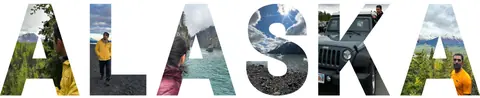
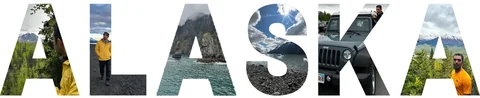
Privacy: no mentions of family, Statcounter visit counting, ehsanjalilvand.com links
- Gallery: the Lake Clark and sea-stacks photos are removed, and the second
  "A" of the ALASKA collage is refilled with sea-stacks scenery only. The
  Alaska card on About now shows the spruce-valley photo.
- Blog: the spotlight portrait's caption credits the NASA Goddard spotlight
  instead of naming the photographer.
- Statcounter visit counting in nav.js, off until the project ID and security
  code are filled in; ?notrack keeps a browser out of the count, and the
  footer says visits are counted while it is on.
- Canonical link, README, agent preview link and docs point at
  https://ehsanjalilvand.com/.
- Privacy check workflow: fails if a personal email address appears in any
  file. CLAUDE.md records the rules for future sessions.
- docs/MAINTAINING.md: Visit counting, Privacy check and Site address.

Claude-Session: https://claude.ai/code/session_018Mb1wVEW5w4WvrE51UhnnJ

Changed region(s): [[0.3125, 0.0306, 0.5, 0.9796]]

diff --git a/site/gallery.html b/site/gallery.html
@@ -14,7 +14,7 @@
 <link rel="preload" href="assets/fonts/young-serif-latin-400-normal.woff2" as="font" type="font/woff2" crossorigin>
 <script>/* The light or dark theme a visitor chose with the switch in the header (assets/nav.js), applied before the page draws. */try{var t=localStorage.getItem("theme");if(t==="light"||t==="dark")document.documentElement.dataset.theme=t}catch(e){}</script>
 <link rel="stylesheet" href="assets/site.css?v=dd2d328f4d">
-<script src="assets/nav.js?v=69473099a0" defer></script>
+<script src="assets/nav.js?v=f2bbf4ece9" defer></script>
 <link rel="stylesheet" href="assets/vendor/leaflet/leaflet.css?v=c02c12fe5e">
 <script src="assets/vendor/leaflet/leaflet.js?v=35b48eb991" defer></script>
 <link rel="stylesheet" href="assets/gallery.css?v=676f400483">
@@ -53,7 +53,7 @@
         <li><strong>EGU General Assembly, 2017 and 2018</strong>, Austria Center Vienna, Vienna, Austria, April 2017 and April 2018: <a href="assets/gallery/egu2017-poster.webp">My EGU 2017 poster, unrolled in the office in Perugia: toward a global map of drainage rate using satellite soil moisture data as the only input.</a>, <a href="assets/gallery/egu2018-vienna.webp">With colleagues at EGU 2018 in Vienna, 10 April 2018.</a></li>
         <li><strong>SMAPVEX22 field campaign</strong>, Harvard Forest, Massachusetts, July 2022: <a href="assets/gallery/smapvex22-pinboard.webp">Measuring surface roughness with a pinboard.</a>, <a href="assets/gallery/smapvex22-tdr.webp">Three TDR sensors measuring soil moisture.</a>, <a href="assets/gallery/smapvex22-bulk-density.webp">Measuring bulk density: dig out a ring of soil, dry it, and measure the volume of the hole.</a>, <a href="assets/gallery/smapvex22-coring.webp">Taking soil samples next to the sensors.</a>, <a href="assets/gallery/smapvex22-tree-height.webp">Measuring tree height with a laser rangefinder and hypsometer.</a>, <a href="assets/gallery/smapvex22-vegetation.webp">Vegetation measurements with the Michigan Tech Research Institute team.</a>, <a href="assets/gallery/smapvex22-logger.webp">A solar-powered station logging soil moisture through the campaign.</a>, <a href="assets/gallery/smapvex22-owl.webp">A barred owl watching us from a dead branch in Harvard Forest, 26 July 2022.</a>, <a href="assets/gallery/smapvex22-team.webp">The field team.</a></li>
         <li><strong>Crop growth stages, field measurements</strong>, Michigan State University, East Lansing, July–September 2022: <a href="assets/gallery/michigan-soybean-leaves.webp">Counting soybean leaves.</a>, <a href="assets/gallery/michigan-lai.webp">Measuring leaf area index with an LAI meter.</a>, <a href="assets/gallery/michigan-corn.webp">Sampling corn for plant height and vegetation water content.</a>, <a href="assets/gallery/michigan-soybean-end.webp">Soybean at the end of the season.</a></li>
-        <li><strong>Across Alaska’s tundra</strong>, Alaska, May 2023: <a href="assets/gallery/alaska-2023.webp">Alaska, May 2023, in one word.</a>, <a href="assets/gallery/alaska-lake-clark.webp">On the shore of Cook Inlet in Lake Clark National Park, with the bush plane behind us, 30 May 2023.</a>, <a href="assets/gallery/alaska-sea-stacks.webp">Spruce-topped sea stacks from the deck of the boat.</a>, <a href="assets/gallery/alaska-spruce-valley.webp">Above a valley of spruce, with snow still on the peaks.</a>, <a href="assets/gallery/alaska-shore.webp">Walking the shore at dusk, with snow on the mountains across the water.</a>, <a href="assets/gallery/alaska-last-frontier.webp">Alaska, the Last Frontier.</a></li>
+        <li><strong>Across Alaska’s tundra</strong>, Alaska, May 2023: <a href="assets/gallery/alaska-2023.webp">Alaska, May 2023, in one word.</a>, <a href="assets/gallery/alaska-spruce-valley.webp">Above a valley of spruce, with snow still on the peaks.</a>, <a href="assets/gallery/alaska-shore.webp">Walking the shore at dusk, with snow on the mountains across the water.</a>, <a href="assets/gallery/alaska-last-frontier.webp">Alaska, the Last Frontier.</a></li>
         <li><strong>AgroTrack at AGU24</strong>, Walter E. Washington Convention Center, Washington, DC, December 2024: <a href="assets/media/agrotrack-agu24.mp4">Presenting AgroTrack at AGU24 (video).</a></li>
       </noscript>
     </ul>

diff --git a/site/blog.html b/site/blog.html
@@ -7,7 +7,7 @@
 <link rel="preload" href="assets/fonts/young-serif-latin-400-normal.woff2" as="font" type="font/woff2" crossorigin>
 <link href="https://fonts.googleapis.com/css2?family=Alegreya:ital,wght@0,400..700;1,400..700&family=Alegreya+Sans:ital,wght@0,400;0,500;1,400&display=swap" rel="stylesheet">
 <script>/* The light or dark theme a visitor chose with the switch in the header (assets/nav.js), applied before the page draws. */try{var t=localStorage.getItem("theme");if(t==="light"||t==="dark")document.documentElement.dataset.theme=t}catch(e){}</script>
-<link rel="stylesheet" href="assets/site.css?v=dd2d328f4d"><link rel="stylesheet" href="assets/blog.css?v=892cbd0a2d"><script src="assets/blog.js?v=24b8e6462d" defer></script><script src="assets/nav.js?v=69473099a0" defer></script></head>
+<link rel="stylesheet" href="assets/site.css?v=dd2d328f4d"><link rel="stylesheet" href="assets/blog.css?v=892cbd0a2d"><script src="assets/blog.js?v=24b8e6462d" defer></script><script src="assets/nav.js?v=f2bbf4ece9" defer></script></head>
 <body class="blog-page"><a class="skip" href="#blog-main">Skip to content</a><div class="wrap">  <header class="site-head">
     <a class="site-name" href="index.html" aria-label="Ehsan Jalilvand, about me"><img class="ej" src="assets/ej-64.png?v=5f8a71e437" alt="" width="30" height="30"><span>Ehsan Jalilvand</span></a>
     <nav class="site-nav" aria-label="Main">
@@ -54,8 +54,8 @@
       <a class="bl-go" href="https://science.gsfc.nasa.gov/600/ECSS/spotlight/Ehsan-Jalilvand/" target="_blank" rel="noopener">Read the interview ↗</a>
     </div>
     <figure class="bl-fig">
-      <button type="button" class="bl-zoom" data-caption="Photo: Mahya Hashemi, from the NASA Goddard spotlight." aria-label="Enlarge the spotlight portrait"><img src="https://science.gsfc.nasa.gov/_nuxt/img/profile.01e97ab.avif" alt="Ehsan Jalilvand, smiling, outdoors." width="1200" height="1200" loading="lazy" decoding="async" referrerpolicy="no-referrer" onerror="this.onerror=null;this.src='assets/about/ehsan-square.webp'"></button>
-      <figcaption>Photo: Mahya Hashemi.</figcaption>
+      <button type="button" class="bl-zoom" data-caption="From the NASA Goddard spotlight." aria-label="Enlarge the spotlight portrait"><img src="https://science.gsfc.nasa.gov/_nuxt/img/profile.01e97ab.avif" alt="Ehsan Jalilvand, smiling, outdoors." width="1200" height="1200" loading="lazy" decoding="async" referrerpolicy="no-referrer" onerror="this.onerror=null;this.src='assets/about/ehsan-square.webp'"></button>
+      <figcaption>From the NASA Goddard spotlight.</figcaption>
     </figure>
   </li>
 </ul>

diff --git a/site/assets/nav.js b/site/assets/nav.js
@@ -17,9 +17,33 @@
    saved, the site follows the device. The switch fades the page into the new theme from the button (View Transitions,
    where the browser has them). Other scripts can listen for the "themechange" event on document.
    A page can keep a theme of its own: satellites.html opens dark and saves its switch under "theme-satellites"
-   (data-theme-key on <html>, set by its <head> script), so the other pages keep theirs. */
+   (data-theme-key on <html>, set by its <head> script), so the other pages keep theirs.
+
+   Visit counting: Statcounter keeps a log of recent visits (approximate location, network, device, pages read). It
+   loads only once the project ID and security code below are filled in; with them empty, nothing is loaded.
+   Opening any page with ?notrack (for example index.html?notrack) stops counting visits from that browser, so my own
+   visits stay out of the numbers; ?track counts it again. While counting is on, the footer says so. */
 (() => {
   'use strict';
+
+  // ---- Visit counting ----
+  // statcounter.com → the project → Settings → Reinstall code: the numbers after sc_project= and sc_security=
+  const STATCOUNTER = { project: 0, security: '' };
+  (() => {
+    try {
+      const q = new URLSearchParams(location.search);
+      if (q.has('notrack')) localStorage.setItem('notrack', '1');
+      if (q.has('track')) localStorage.removeItem('notrack');
+      if (localStorage.getItem('notrack')) return;
+    } catch (e) { /* storage blocked: count the visit */ }
+    if (!STATCOUNTER.project) return;
+    Object.assign(window, { sc_project: STATCOUNTER.project, sc_invisible: 1, sc_security: STATCOUNTER.security });
+    const s = document.createElement('script');
+    s.async = true; s.src = 'https://www.statcounter.com/counter/counter.js';
+    document.head.append(s);
+    const note = document.querySelector('.site-foot > p');
+    if (note) note.append(' Visits to this site are counted with Statcounter, which records approximate location, device and the pages viewed.');
+  })();
 
   // ---- Menu ----
   // [link, label, pages that belong under it (shown as the current section)]

diff --git a/site/index.html b/site/index.html
@@ -8,8 +8,8 @@
 <meta property="og:title" content="Ehsan Jalilvand">
 <meta property="og:description" content="Hydro-data scientist at NASA Goddard: irrigation, satellite observations and water-cycle models.">
 <meta property="og:type" content="profile">
-<meta property="og:url" content="https://ejalilva.github.io/irrigation-studies/">
-<link rel="canonical" href="https://ejalilva.github.io/irrigation-studies/">
+<meta property="og:url" content="https://ehsanjalilvand.com/">
+<link rel="canonical" href="https://ehsanjalilvand.com/">
 <link rel="icon" href="assets/ej-32.png?v=5fc7cda74a" sizes="32x32" type="image/png">
 <link rel="icon" href="assets/ej-64.png?v=5f8a71e437" sizes="64x64" type="image/png">
 <link rel="apple-touch-icon" href="assets/ej-180.png?v=f78fc0a1f9">
@@ -17,7 +17,7 @@
 <link rel="preload" href="assets/fonts/young-serif-latin-400-normal.woff2" as="font" type="font/woff2" crossorigin>
 <script>/* The light or dark theme a visitor chose with the switch in the header (assets/nav.js), applied before the page draws. */try{var t=localStorage.getItem("theme");if(t==="light"||t==="dark")document.documentElement.dataset.theme=t}catch(e){}</script>
 <link rel="stylesheet" href="assets/site.css?v=dd2d328f4d">
-<script src="assets/nav.js?v=69473099a0" defer></script>
+<script src="assets/nav.js?v=f2bbf4ece9" defer></script>
 <link rel="stylesheet" href="assets/about.css?v=8e77725ac0">
 <script src="assets/about-gallery.js?v=653c2dbba1" defer></script>
 <script src="assets/study-cards.js?v=b29cd12306" defer></script>

diff --git a/site/blog-big-ratchet.html b/site/blog-big-ratchet.html
@@ -7,7 +7,7 @@
 <link rel="preload" href="assets/fonts/young-serif-latin-400-normal.woff2" as="font" type="font/woff2" crossorigin>
 <link href="https://fonts.googleapis.com/css2?family=Alegreya:ital,wght@0,400..700;1,400..700&family=Alegreya+Sans:ital,wght@0,400;0,500;1,400&display=swap" rel="stylesheet">
 <script>/* The light or dark theme a visitor chose with the switch in the header (assets/nav.js), applied before the page draws. */try{var t=localStorage.getItem("theme");if(t==="light"||t==="dark")document.documentElement.dataset.theme=t}catch(e){}</script>
-<link rel="stylesheet" href="assets/site.css?v=dd2d328f4d"><link rel="stylesheet" href="assets/blog.css?v=892cbd0a2d"><script src="assets/nav.js?v=69473099a0" defer></script></head>
+<link rel="stylesheet" href="assets/site.css?v=dd2d328f4d"><link rel="stylesheet" href="assets/blog.css?v=892cbd0a2d"><script src="assets/nav.js?v=f2bbf4ece9" defer></script></head>
 <body class="blog-page"><a class="skip" href="#blog-main">Skip to content</a><div class="wrap">  <header class="site-head">
     <a class="site-name" href="index.html" aria-label="Ehsan Jalilvand, about me"><img class="ej" src="assets/ej-64.png?v=5f8a71e437" alt="" width="30" height="30"><span>Ehsan Jalilvand</span></a>
     <nav class="site-nav" aria-label="Main">

diff --git a/site/satellites.html b/site/satellites.html
@@ -15,7 +15,7 @@
 <link rel="preload" href="assets/fonts/young-serif-latin-400-normal.woff2" as="font" type="font/woff2" crossorigin>
 <script>/* The Satellites page opens in the dark theme, which suits its night sky; the switch in the header changes it for this page only (localStorage "theme-satellites"), and the other pages keep their own (assets/nav.js). */document.documentElement.dataset.themeKey="theme-satellites";try{var t=localStorage.getItem("theme-satellites");document.documentElement.dataset.theme=(t==="light"||t==="dark")?t:"dark"}catch(e){document.documentElement.dataset.theme="dark"}</script>
 <link rel="stylesheet" href="assets/site.css?v=dd2d328f4d">
-<script src="assets/nav.js?v=69473099a0" defer></script>
+<script src="assets/nav.js?v=f2bbf4ece9" defer></script>
 <link rel="stylesheet" href="assets/water-cycle.css?v=ce0f7e208d">
 <link rel="stylesheet" href="assets/satellites.css?v=dc95175c6f">
 <script src="assets/journals.js?v=2bf1a5a0ed"></script>

diff --git a/site/irrigation.html b/site/irrigation.html
@@ -15,7 +15,7 @@
 <link rel="preload" href="assets/fonts/young-serif-latin-400-normal.woff2" as="font" type="font/woff2" crossorigin>
 <script>/* The light or dark theme a visitor chose with the switch in the header (assets/nav.js), applied before the page draws. */try{var t=localStorage.getItem("theme");if(t==="light"||t==="dark")document.documentElement.dataset.theme=t}catch(e){}</script>
 <link rel="stylesheet" href="assets/site.css?v=dd2d328f4d">
-<script src="assets/nav.js?v=69473099a0" defer></script>
+<script src="assets/nav.js?v=f2bbf4ece9" defer></script>
 <script src="assets/aqueduct.js?v=d0e5a08954" defer></script>
 <link rel="stylesheet" href="assets/water-cycle.css?v=ce0f7e208d">
 <link rel="stylesheet" href="assets/study-grid.css?v=026f51cbf4">

diff --git a/site/research.html b/site/research.html
@@ -15,7 +15,7 @@
 <link rel="preload" href="assets/fonts/young-serif-latin-400-normal.woff2" as="font" type="font/woff2" crossorigin>
 <script>/* The light or dark theme a visitor chose with the switch in the header (assets/nav.js), applied before the page draws. */try{var t=localStorage.getItem("theme");if(t==="light"||t==="dark")document.documentElement.dataset.theme=t}catch(e){}</script>
 <link rel="stylesheet" href="assets/site.css?v=dd2d328f4d">
-<script src="assets/nav.js?v=69473099a0" defer></script>
+<script src="assets/nav.js?v=f2bbf4ece9" defer></script>
 <link rel="stylesheet" href="assets/water-cycle.css?v=ce0f7e208d">
 <script src="assets/journals.js?v=2bf1a5a0ed"></script>
 <script src="assets/publications.js?v=d00cb13007" defer></script>

diff --git a/site/human.html b/site/human.html
@@ -15,7 +15,7 @@
 <link rel="preload" href="assets/fonts/young-serif-latin-400-normal.woff2" as="font" type="font/woff2" crossorigin>
 <script>/* The light or dark theme a visitor chose with the switch in the header (assets/nav.js), applied before the page draws. */try{var t=localStorage.getItem("theme");if(t==="light"||t==="dark")document.documentElement.dataset.theme=t}catch(e){}</script>
 <link rel="stylesheet" href="assets/site.css?v=dd2d328f4d">
-<script src="assets/nav.js?v=69473099a0" defer></script>
+<script src="assets/nav.js?v=f2bbf4ece9" defer></script>
 <link rel="stylesheet" href="assets/water-cycle.css?v=ce0f7e208d">
 <script src="assets/journals.js?v=2bf1a5a0ed"></script>
 <script src="assets/water-cycle.js?v=7abf6fa0d8" defer></script>

diff --git a/site/journey.html b/site/journey.html
@@ -12,7 +12,7 @@
 <link rel="apple-touch-icon" href="assets/ej-180.png?v=f78fc0a1f9">
 <script>/* The light or dark theme a visitor chose with the switch in the header (assets/nav.js), applied before the page draws. */try{var t=localStorage.getItem("theme");if(t==="light"||t==="dark")document.documentElement.dataset.theme=t}catch(e){}</script>
 <link rel="stylesheet" href="assets/site.css?v=dd2d328f4d">
-<script src="assets/nav.js?v=69473099a0" defer></script>
+<script src="assets/nav.js?v=f2bbf4ece9" defer></script>
 <link rel="stylesheet" href="assets/journey-page.css?v=3ce566c57e">
 <script src="assets/journey-page.js?v=0ecc392bf4" defer></script>
 </head>

diff --git a/site/about.html b/site/about.html
@@ -3,7 +3,7 @@
 <!-- About is the home page (index.html) since November 2026; this old address forwards there, keeping any #section.
      about.html#publications, the old publication list, goes to the list on the research page. -->
 <title>Ehsan Jalilvand</title>
-<link rel="canonical" href="https://ejalilva.github.io/irrigation-studies/">
+<link rel="canonical" href="https://ehsanjalilvand.com/">
 <meta name="robots" content="noindex">
 <script>location.replace(location.hash === "#publications" ? "research.html#pubs" : "index.html" + location.hash);</script>
 <noscript><meta http-equiv="refresh" content="0; url=index.html"></noscript>

diff --git a/docs/MAINTAINING.md b/docs/MAINTAINING.md
@@ -59,6 +59,8 @@ docs/                 these notes and docs/JOURNEY.md
 | `agent/rejected.json` | Papers you unticked during review. Created on the first rejection. |
 | `.github/workflows/find-papers.yml` | Weekly search and the year-by-year backfill; opens the review pull request. |
 | `.github/workflows/apply-review.yml` | Runs when you tick or untick a paper in the pull request description. |
+| `.github/workflows/privacy-check.yml` | Fails if a personal email address appears in any file (see Visit counting). |
+| `CLAUDE.md` | Standing notes for Claude sessions on this repository, including the privacy rules. |
 
 ## Fonts
 
@@ -152,7 +154,7 @@ The backfill fills the table with older papers, one publication year per pull re
 
 ### Reviewing a pull request
 
-1. **Preview it.** The pull request description starts with a link to `https://ejalilva.github.io/irrigation-studies/irrigation.html?preview#landscape`. The preview shows the proposed papers on the real page, badged **Proposed**, with **Check details** on rows that have empty columns. Adding `?preview` to the page address works at any time; with no open review it shows the published table.
+1. **Preview it.** The pull request description starts with a link to `https://ehsanjalilvand.com/irrigation.html?preview#landscape`. The preview shows the proposed papers on the real page, badged **Proposed**, with **Check details** on rows that have empty columns. Adding `?preview` to the page address works at any time; with no open review it shows the published table.
 2. **Untick papers to reject them.** Each paper is a tickbox in the description. Unticking one makes `apply-review.yml` move it to `agent/rejected.json` within a minute; it stays in `seen.json` and is never proposed again. Ticking it again restores it. The preview can lag a few minutes behind because GitHub caches raw files.
 3. **Mark Rising papers.** Under each paper is a **Rising** tickbox. Tick it to feature the paper as your pick. To add your note, edit the pull request description and type it after `Note:` on that line; it appears on the pick's card. Unticking removes the pick.
 4. **Fix details if needed.** Edit `data/papers.json` on the `agent/new-papers` branch (the preview has an "Edit details on GitHub" link), and set `needs_review` to `false` on rows you complete.
@@ -219,9 +221,21 @@ Rising papers live in `data/editor_picks.json`, separate from the table data:
   - `OPENALEX_API_KEY`: free, from openalex.org → Settings → API. A weekly run (about 15 to 20 requests) fits in the no-key allowance.
 - GitHub disables scheduled workflows in public repositories after 60 days without activity. Re-enable from the Actions tab if that happens.
 
-## Google Sites
+## Visit counting
 
-The site was linked from the old Google Site's navigation (Pages → New link → `https://ejalilva.github.io/irrigation-studies/`). To serve it at a subdomain such as `research.ehsanjalilvand.com`, add a CNAME record pointing to `ejalilva.github.io` and set the custom domain under Settings → Pages.
+GitHub Pages keeps no visitor logs (a repository's Insights → Traffic counts visits to the code on github.com, not to the site), so visits are counted with [Statcounter](https://statcounter.com). Its log of recent visits shows each one's approximate location, network (the internet provider, or the organization when someone browses from work), device, how they arrived and the pages they read. The free plan keeps the most recent 500 page loads in detail.
+
+- **Switching it on:** at the top of `site/assets/nav.js`, set `STATCOUNTER.project` and `STATCOUNTER.security` to the numbers after `sc_project=` and `sc_security=` in the project's install code (statcounter.com → the project → Settings → Reinstall code). With `project` left at 0, nothing is loaded. Run `python scripts/stamp_assets.py` afterwards.
+- **Your own visits:** open any page with `?notrack` (for example `https://ehsanjalilvand.com/?notrack`) once on each of your browsers and devices; that browser is no longer counted. `?track` undoes it.
+- **The footer** says visits are counted with Statcounter while it is on.
+- **What it can't see:** names or email addresses, and most robots and scrapers, which don't run the script.
+- **No public visitor map:** a map of visitors would need the data out of Statcounter automatically, and its API is only on paid plans.
+
+**Privacy check.** `.github/workflows/privacy-check.yml` fails on any push to `main` or pull request that puts a personal email address (Gmail, Yahoo, Outlook and the like) in any file. For commits, turn on "Keep my email addresses private" and "Block command line pushes that expose my email" under GitHub → Settings → Emails, so commits carry the GitHub noreply address.
+
+## Site address
+
+The site is served at https://ehsanjalilvand.com, the custom domain set under Settings → Pages; it replaced the old Google Site. The GitHub address, https://ejalilva.github.io/irrigation-studies/, forwards there. Links, the canonical link in `index.html` and `site_url` in `agent/config.json` use the custom domain.
 
 ## Storyline: "Every answer revealed another question"
 
@@ -415,7 +429,7 @@ The flakes sit in a `.snow-shower` group, the cloud is `.snow-cloud` and the sun
 
 - **A place** has an `id` (also its address: `gallery.html#smapvex22` opens it), `kind` (`field`, green pin; `visit`, terracotta pin, for research visits; or `talk`, blue pin, for conferences and presentations), `title`, `where`, `date`, `lat` and `lon`, one or two sentences of `text`, and `photos`.
 - **A photo** is `{ "file": "name", "caption": "...", "credit": "Photo: ..." }` (credit optional) for two files in `assets/gallery/`: `name.webp`, about 1400 px on the long side, and `name-sm.webp`, about 480 px. Strip location data when saving (the pictures here were re-encoded without EXIF). Add `"wide": true` to show a photo across the whole panel at its own shape instead of as a cropped tile; wide photos load the large file. The ALASKA letters, the Last Frontier title picture and the SMAPVEX22 team photo are wide. The panel lists photos in the order of the array, two tiles to a row.
-- **Small pictures.** The viewer shows a picture narrower than 700 px at no more than 1.5 times its own width, so it is not blown up into a blur. The three Alaska photos cut from Ehsan's "Alaska, the Last Frontier" collage (`alaska-sea-stacks`, `alaska-spruce-valley`, `alaska-shore`) are only about 400 px wide; replacing them with the original photos, under the same names, would make the large views sharper.
+- **Small pictures.** The viewer shows a picture narrower than 700 px at no more than 1.5 times its own width, so it is not blown up into a blur. The two Alaska photos cut from Ehsan's "Alaska, the Last Frontier" collage (`alaska-spruce-valley`, `alaska-shore`) are only about 400 px wide; replacing them with the original photos, under the same names, would make the large views sharper.
 - **On the About page.** Every place also appears on the home page, as a numbered pin and a card (newest first, by the year and last month of its `date`). Two optional fields are for that card only: `place`, a short location ("Washington, DC"; else `where` is used), and `cover`, the `file` of the photo it shows (else the first photo that is not `wide`, else the video's poster).
 - **To add a talk or conference**, add a place with `"kind": "talk"` and its pictures (a research visit: `"kind": "visit"`). A meeting held at the same venue in several years is one place, as EGU is, because two places with the same `lat` and `lon` would put one pin exactly on top of the other. Pins are placed so that all of them fit the map beside the panel.
 - **Pins open on hover.** Resting the mouse on a pin for 150 ms (so passing over it does not count) opens its panel; a click or tap does the same. The panel stays open when the mouse moves on, so its pictures can be reached; another pin replaces it, and × or Escape closes it. The tooltip shows the title and date.
